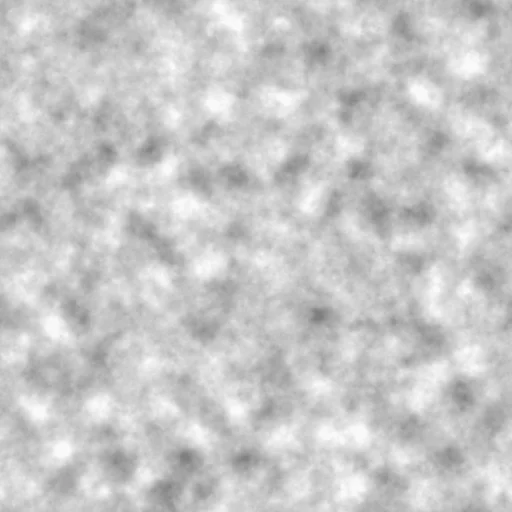
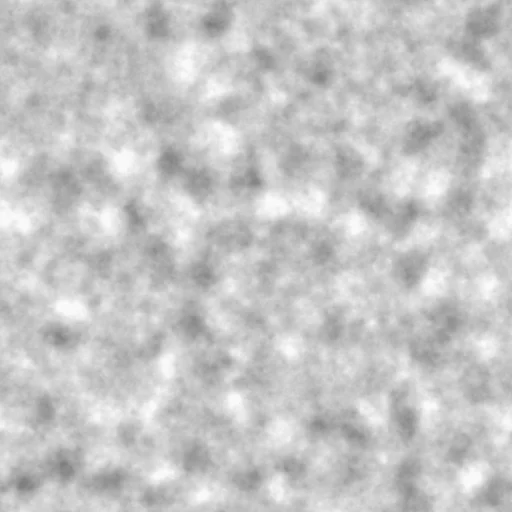
update rendering chargement

diff --git a/index.html b/index.html
@@ -40,14 +40,19 @@
 
     <!-- POSTER du hero (1re frame du voyage 3D) : affiché instantanément à la place
          de l'ancien écran de chargement → à précharger en priorité (c'est le LCP). -->
-    <link rel="preload" href="/hero-first-frame.jpg" as="image" fetchpriority="high" />
+    <link rel="preload" href="/hero-first-frame.webp" as="image" fetchpriority="high" />
 
-    <link rel="preconnect" href="https://fonts.googleapis.com" />
-    <link rel="preconnect" href="https://fonts.gstatic.com" crossorigin />
-    <link
-      href="https://fonts.googleapis.com/css2?family=Geist:wght@300;400;500;600;700&family=Inter:wght@300;400;500;600&display=swap"
-      rel="stylesheet"
-    />
+    <!-- POLICES AUTO-HÉBERGÉES (déclarées dans src/index.css) : l'ancienne chaîne
+         googleapis (CSS) → gstatic (woff2) coûtait ~1,4 s sur le chemin critique.
+         Fichiers VARIABLES : un seul woff2 par famille couvre tous les poids. -->
+    <link rel="preload" href="/fonts/geist-latin.woff2" as="font" type="font/woff2" crossorigin />
+    <link rel="preload" href="/fonts/inter-latin.woff2" as="font" type="font/woff2" crossorigin />
+
+    <!-- TEXTURES DE ROCHE pré-cuites : la 1re frame 3D les ATTEND (loading manager),
+         mais sans preload elles ne partaient qu'après le téléchargement + parse du
+         chunk CaveScene → les précharger fait « prendre vie » la grotte plus tôt. -->
+    <link rel="preload" href="/rock-normal.webp" as="image" />
+    <link rel="preload" href="/rock-rough.webp" as="image" />
 
     <!-- Données structurées (schema.org) : aide Google à comprendre la marque,
          le site et le produit → éligibilité aux résultats enrichis. -->

diff --git a/src/index.css b/src/index.css
@@ -1,6 +1,33 @@
 @import "tailwindcss";
 
 /* ===========================================================
+   Polices AUTO-HÉBERGÉES (ex-Google Fonts) — la chaîne critique
+   passait par 2 origines (googleapis → gstatic, ~1,4 s sur le
+   woff2) ; servies depuis /fonts, elles partent dès le parse du
+   HTML (préchargées dans index.html). Fichiers VARIABLES (un
+   seul woff2 par famille couvre 400→600), subset latin (couvre
+   le français : é à ç œ …). La home n'utilise que Geist
+   400/500/600 + Inter 400 (corps des cartes 3D).
+   Le blog garde ses propres polices Google (Layout.jsx).
+   =========================================================== */
+@font-face {
+  font-family: 'Geist';
+  font-style: normal;
+  font-weight: 100 900;
+  font-display: swap;
+  src: url('/fonts/geist-latin.woff2') format('woff2');
+  unicode-range: U+0000-00FF, U+0131, U+0152-0153, U+02BB-02BC, U+02C6, U+02DA, U+02DC, U+0304, U+0308, U+0329, U+2000-206F, U+20AC, U+2122, U+2191, U+2193, U+2212, U+2215, U+FEFF, U+FFFD;
+}
+@font-face {
+  font-family: 'Inter';
+  font-style: normal;
+  font-weight: 100 900;
+  font-display: swap;
+  src: url('/fonts/inter-latin.woff2') format('woff2');
+  unicode-range: U+0000-00FF, U+0131, U+0152-0153, U+02BB-02BC, U+02C6, U+02DA, U+02DC, U+0304, U+0308, U+0329, U+2000-206F, U+20AC, U+2122, U+2191, U+2193, U+2212, U+2215, U+FEFF, U+FFFD;
+}
+
+/* ===========================================================
    Design tokens — Ruby Charte Graphique v2
    (cf. docs/charte_graphique.md → Palette)
    =========================================================== */

diff --git a/src/components/Hero.jsx b/src/components/Hero.jsx
@@ -247,13 +247,13 @@ export default function Hero() {
       {/* tout est épinglé à l'écran pendant qu'on défile la section */}
       <div className="sticky top-0 h-svh w-full overflow-hidden">
         {/* image de repli UNIQUEMENT sans 3D (animations réduites). MÊME fichier que
-            le poster de chargement (hero-first-frame.jpg) : le prérendu injecte ce
+            le poster de chargement (hero-first-frame.webp) : le prérendu injecte ce
             chemin `use3D=false` dans le HTML statique → comme le poster est déjà
             préchargé (index.html), l'image du prérendu ne coûte AUCUNE requête en
             plus (avant : hero-cave.jpg, 121 Ko téléchargés puis remplacés au montage). */}
         {!use3D && (
           <img
-            src="/hero-first-frame.jpg"
+            src="/hero-first-frame.webp"
             alt=""
             aria-hidden="true"
             className={`absolute inset-0 h-full w-full object-cover ${reduce ? '' : 'kenburns'}`}
@@ -284,7 +284,7 @@ export default function Hero() {
             ni les clics ni la parallaxe souris une fois effacé. */}
         {use3D && !HIDE_UI && (
           <img
-            src="/hero-first-frame.jpg"
+            src="/hero-first-frame.webp"
             alt=""
             aria-hidden="true"
             className={`pointer-events-none absolute inset-0 h-full w-full object-cover transition-opacity duration-700 ${
